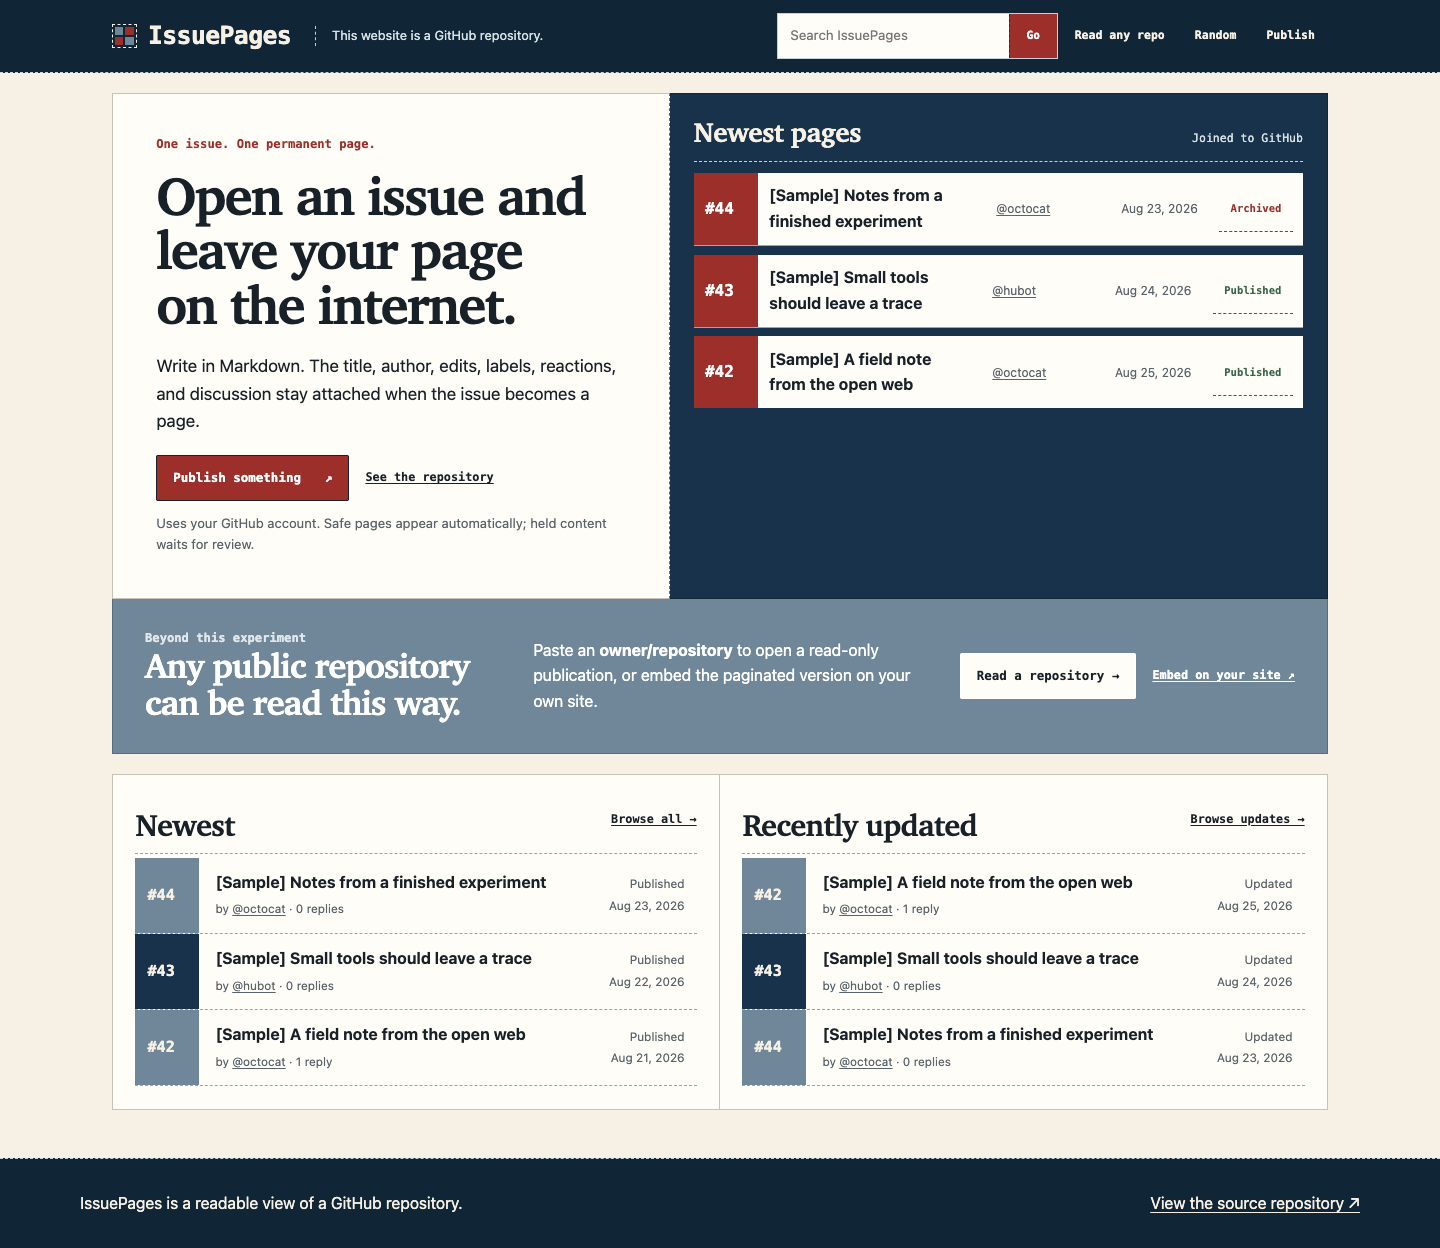
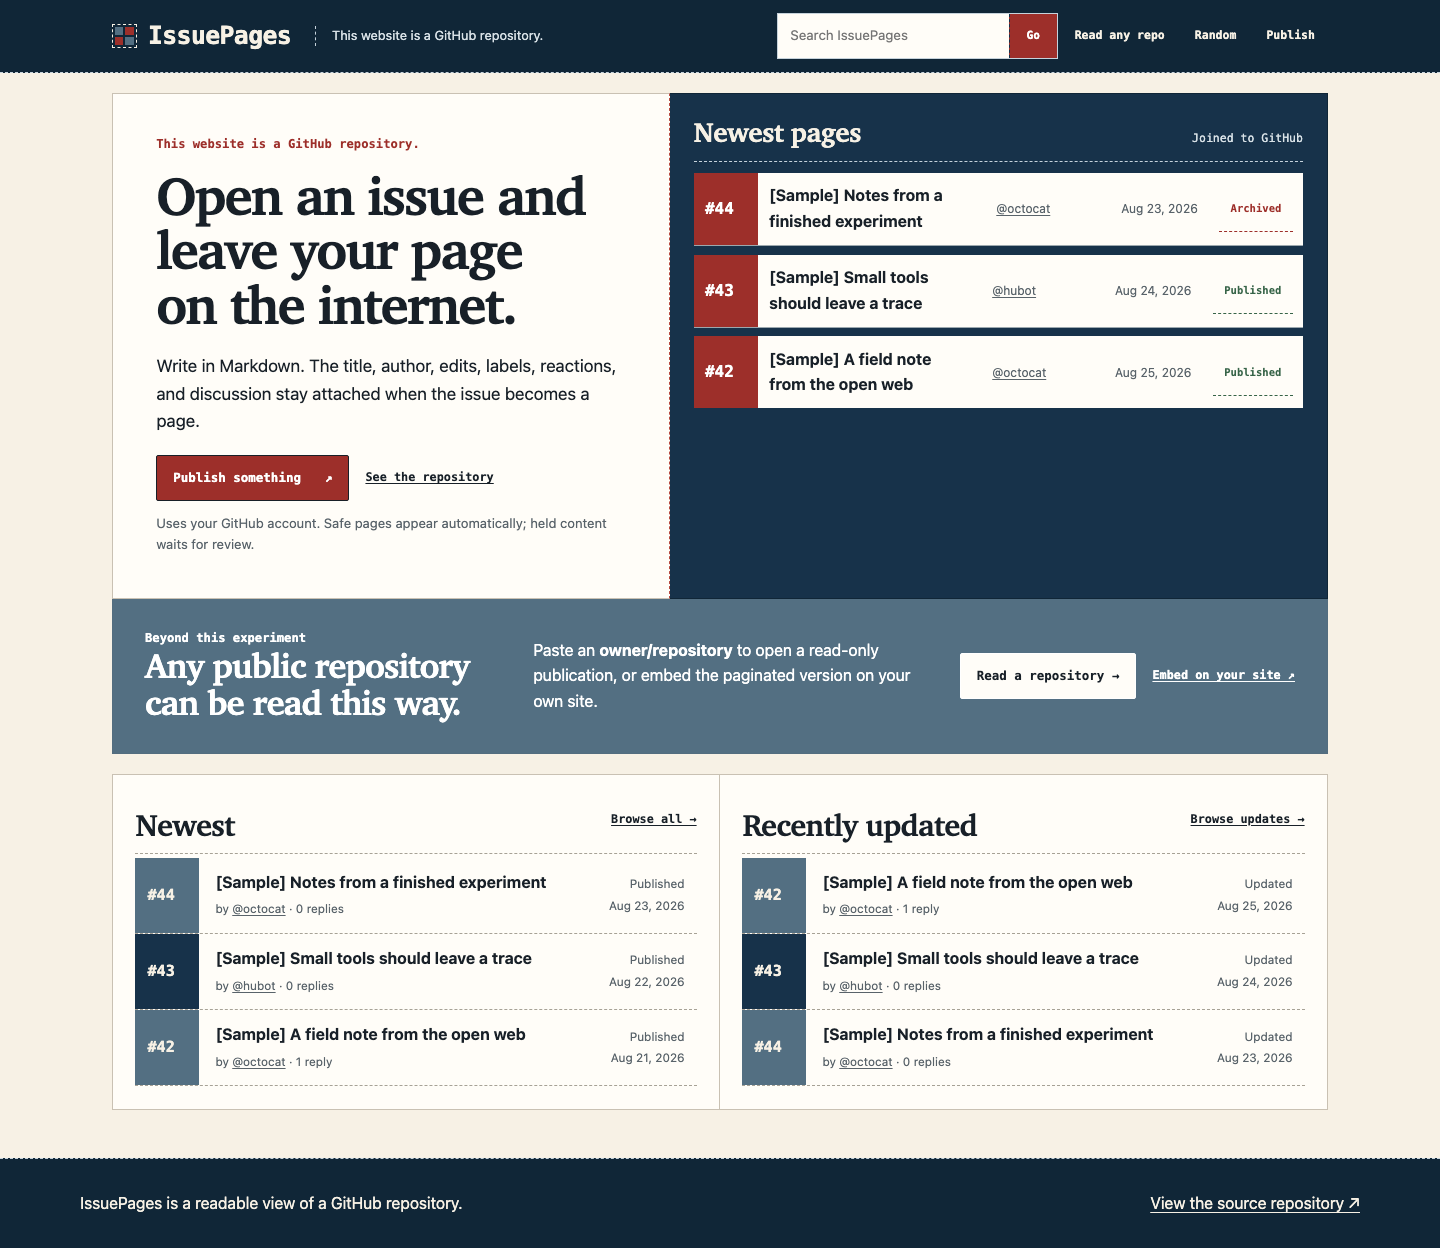
fix: finish Common Thread accessibility

diff --git a/src/ui/embed-assets.ts b/src/ui/embed-assets.ts
@@ -20,7 +20,7 @@ img { max-width:100%; height:auto; }
 .embed-header { min-height:58px; display:grid; grid-template-columns:auto minmax(0,1fr) auto; align-items:center; gap:.75rem; padding:.55rem var(--pad); border-top:1px dashed var(--embed-accent); border-bottom:1px solid var(--ink); background:var(--slate); color:#f7f1e5; }
 .embed-brand { font-size:.72rem; font-weight:800; text-decoration:none; }
 .embed-header strong { min-width:0; overflow:hidden; text-overflow:ellipsis; white-space:nowrap; font-size:clamp(.95rem,3vw,1.2rem); }
-.embed-header strong span,.embed-intro h1 span { color:var(--embed-accent); }
+.embed-header strong span,.embed-intro h1 span { color:inherit; text-decoration:3px underline var(--embed-accent); text-underline-offset:.2em; }
 .embed-header > a:last-child { min-height:44px; display:inline-flex; align-items:center; font-size:.75rem; font-weight:750; }
 .embed-intro { display:flex; justify-content:space-between; align-items:end; gap:1rem; padding:clamp(1.1rem,4vw,2rem) var(--pad) .85rem; border-bottom:1px solid var(--ink); }
 .embed-intro p { margin:0 0 .35rem; color:var(--muted); font-size:.7rem; font-weight:750; }
@@ -28,7 +28,7 @@ img { max-width:100%; height:auto; }
 .embed-intro > span { flex:none; color:var(--muted); font-size:.75rem; }
 .embed-ledger { background:var(--sheet); }
 .embed-row { display:grid; grid-template-columns:5.2rem minmax(0,1fr) auto; min-height:88px; border-bottom:1px solid var(--rule); }
-.embed-number { display:flex; align-items:center; justify-content:center; padding:var(--row-pad); background:var(--embed-accent); color:#fff; font-size:1.05rem; font-weight:800; text-decoration:none; }
+.embed-number { display:flex; align-items:center; justify-content:center; padding:var(--row-pad); background:var(--embed-accent); color:var(--embed-accent-ink,#fff); font-size:1.05rem; font-weight:800; text-decoration:none; }
 .embed-row__body { min-width:0; padding:var(--row-pad); }
 .embed-row__title { display:block; font-size:1rem; font-weight:750; line-height:1.25; text-decoration:none; }
 .embed-row__body p { margin:.25rem 0 0; color:var(--muted); font-size:.76rem; }

diff --git a/src/ui/templates.ts b/src/ui/templates.ts
@@ -474,7 +474,7 @@ export function embedBuilderPage(
     </section>
     <form class="embed-config repo-form" action="/embed" method="get">
       <label for="embed-repository">Public GitHub repository</label>
-      <input id="embed-repository" name="repo" value="${escapeHtml(value)}" placeholder="owner/repository" spellcheck="false" required${error ? ' aria-invalid="true"' : ""}>
+      <input id="embed-repository" name="repo" value="${escapeHtml(value)}" placeholder="owner/repository" spellcheck="false" required${error ? ' aria-invalid="true" aria-describedby="embed-repository-error" autofocus' : ""}>
       <div class="embed-config__options">
         <label>Theme<select name="theme"><option value="auto"${options.theme === "auto" ? " selected" : ""}>Auto</option><option value="inherit"${options.theme === "inherit" ? " selected" : ""}>Inherit host</option><option value="light"${options.theme === "light" ? " selected" : ""}>Light</option><option value="dark"${options.theme === "dark" ? " selected" : ""}>Dark</option></select></label>
         <label>Density<select name="density"><option value="comfortable"${options.density === "comfortable" ? " selected" : ""}>Comfortable</option><option value="compact"${options.density === "compact" ? " selected" : ""}>Compact</option></select></label>
@@ -486,7 +486,7 @@ export function embedBuilderPage(
       <input id="embed-label" name="label" value="${escapeHtml(options.label)}" placeholder="blog" maxlength="50">
       <label for="embed-author">Only issues by this GitHub author <span>(optional)</span></label>
       <input id="embed-author" name="author" value="${escapeHtml(options.author)}" placeholder="octocat" maxlength="39" spellcheck="false">
-      ${error ? `<p class="field-error" role="alert">${escapeHtml(error)}</p>` : ""}
+      ${error ? `<p id="embed-repository-error" class="field-error" role="alert">${escapeHtml(error)}</p>` : ""}
       <button type="submit">Build embed →</button>
     </form>
     <section class="embed-code" aria-labelledby="embed-code-title">

diff --git a/src/ui/embed.ts b/src/ui/embed.ts
@@ -6,7 +6,7 @@ FIRST VIEWPORT — Repository identity and the first real issue rows appear with
 FORM — Common Thread reduced to a host-safe folio; the minimal variant remains neutral.
 */
 import type { EmbedOptions } from "../lib/embed";
-import { embedQuery } from "../lib/embed";
+import { embedAccentForeground, embedQuery } from "../lib/embed";
 import type {
   PublicComment,
   PublicIssueDiscussion,
@@ -134,7 +134,7 @@ export function embedLayout(
 ): string {
   const renderedTheme = options.theme === "inherit" ? "auto" : options.theme;
   return `<!doctype html>
-<html lang="en" data-theme="${renderedTheme}" data-density="${options.density}" data-variant="${options.variant}" data-embed-channel="${escapeHtml(options.channel)}" style="--embed-accent:${options.accent}">
+<html lang="en" data-theme="${renderedTheme}" data-density="${options.density}" data-variant="${options.variant}" data-embed-channel="${escapeHtml(options.channel)}" style="--embed-accent:${options.accent};--embed-accent-ink:${embedAccentForeground(options.accent)}">
 <head>
   <meta charset="utf-8">
   <meta name="viewport" content="width=device-width, initial-scale=1">

diff --git a/test/lib.test.ts b/test/lib.test.ts
@@ -1,6 +1,11 @@
 import { afterEach, describe, expect, it, vi } from "vitest";
 import { decodeCursor, encodeCursor } from "../src/lib/cursor";
-import { embedQuery, issueMatchesEmbedFilters, parseEmbedOptions } from "../src/lib/embed";
+import {
+  embedAccentForeground,
+  embedQuery,
+  issueMatchesEmbedFilters,
+  parseEmbedOptions,
+} from "../src/lib/embed";
 import { normalizeGitHubHtml } from "../src/lib/github-html";
 import { renderGitHubMarkdown } from "../src/lib/github-markdown";
 import {
@@ -21,6 +26,13 @@ afterEach(() => {
 });
 
 describe("content primitives", () => {
+  it("chooses a contrast-safe foreground for embed accents", () => {
+    expect(embedAccentForeground("#ffffff")).toBe("#000000");
+    expect(embedAccentForeground("#000000")).toBe("#ffffff");
+    expect(embedAccentForeground("#9d2f2a")).toBe("#ffffff");
+    expect(embedAccentForeground("#777777")).toBe("#000000");
+  });
+
   it("creates stable slugs and opaque cursors", () => {
     expect(slugify("  A Page: Worth Keeping!  ")).toBe("a-page-worth-keeping");
     const cursor = encodeCursor("2026-08-25T00:00:00.000Z", 42);

diff --git a/src/ui/assets.ts b/src/ui/assets.ts
@@ -306,7 +306,7 @@ mark { background: var(--gold-soft); color: var(--ink); padding-inline: .08em; }
   --blue: #245c82;
   --field: #17324a;
   --field-deep: #102637;
-  --field-soft: #6f8798;
+  --field-soft: #536f82;
   --field-ink: #f7f1e5;
   --seam: #b84b41;
   --display: Charter, "Bitstream Charter", "Sitka Text", Cambria, Georgia, serif;
@@ -361,7 +361,7 @@ main { min-height: 76vh; }
 .dispatch-status--archived { border-color: var(--red); color: var(--red); }
 .empty-dispatch { color: #d9e2e7; }
 .reader-callout { max-width: 1216px; margin: 0 auto; border: 0; border-inline: 1px solid #536d7f; border-bottom: 1px solid #536d7f; background: var(--field-soft); color: #fff; padding: clamp(1.2rem,2.5vw,2rem); grid-template-columns: minmax(16rem,.9fr) minmax(18rem,1fr) auto; }
-.reader-callout .field-note { color: #fff; opacity: .8; }
+.reader-callout .field-note { color: #fff; }
 .reader-callout h2 { font: 650 clamp(1.45rem,2.5vw,2.15rem)/1.08 var(--display); }
 .reader-callout .button--light { border-color: #fff; }
 .reader-callout .text-link { color: #fff; }

diff --git a/src/lib/embed.ts b/src/lib/embed.ts
@@ -19,6 +19,23 @@ interface FilterableIssue {
 
 const DEFAULT_ACCENT = "#9d2f2a";
 
+function relativeLuminance(hex: string): number {
+  const channels = [hex.slice(1, 3), hex.slice(3, 5), hex.slice(5, 7)].map((value) => {
+    const channel = Number.parseInt(value, 16) / 255;
+    return channel <= 0.04045 ? channel / 12.92 : ((channel + 0.055) / 1.055) ** 2.4;
+  });
+  const [red = 0, green = 0, blue = 0] = channels;
+  return 0.2126 * red + 0.7152 * green + 0.0722 * blue;
+}
+
+export function embedAccentForeground(accent: string): "#000000" | "#ffffff" {
+  if (!/^#[\da-f]{6}$/i.test(accent)) return "#ffffff";
+  const accentLuminance = relativeLuminance(accent);
+  const whiteContrast = 1.05 / (accentLuminance + 0.05);
+  const blackContrast = (accentLuminance + 0.05) / 0.05;
+  return blackContrast > whiteContrast ? "#000000" : "#ffffff";
+}
+
 function hasControlCharacters(value: string): boolean {
   return [...value].some((character) => {
     const codePoint = character.codePointAt(0) ?? 0;

diff --git a/src/client/reader.ts b/src/client/reader.ts
@@ -1,3 +1,5 @@
+import { embedAccentForeground } from "../lib/embed";
+
 const discussion = document.querySelector<HTMLElement>("[data-reader-discussion]");
 
 function renderDiscussionError(container: HTMLElement, source: string): void {
@@ -131,6 +133,10 @@ if (embedChannel) {
     document.documentElement.dataset.theme = message.theme;
     if (typeof message.accent === "string" && /^#[\da-f]{6}$/i.test(message.accent)) {
       document.documentElement.style.setProperty("--embed-accent", message.accent);
+      document.documentElement.style.setProperty(
+        "--embed-accent-ink",
+        embedAccentForeground(message.accent),
+      );
     }
   });
 

diff --git a/test/worker.test.ts b/test/worker.test.ts
@@ -371,6 +371,7 @@ describe("public Worker routes", () => {
     expect(body).toContain('data-theme="dark"');
     expect(body).toContain('data-density="compact"');
     expect(body).toContain("--embed-accent:#123456");
+    expect(body).toContain("--embed-accent-ink:#ffffff");
     expect(body).toContain('data-embed-channel="test-channel"');
     expect(body).toContain("A public reader issue");
     expect(body).not.toContain("Pull request result");
